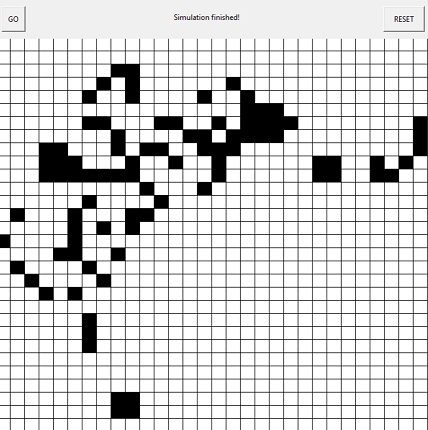
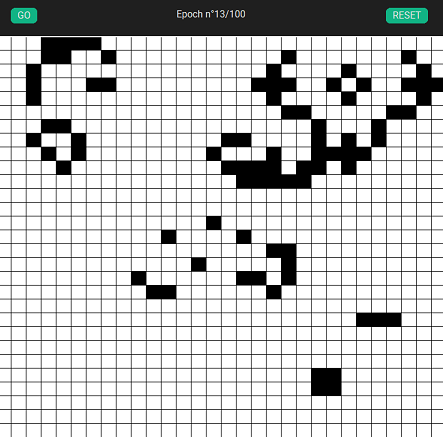
Improve ux

diff --git a/GameOfLife.py b/GameOfLife.py
@@ -1,5 +1,11 @@
 import numpy as np
 import tkinter as tk
+import customtkinter as ctk
+
+
+ctk.set_appearance_mode('dark')
+ctk.set_default_color_theme('green')
+ctk.set_window_scaling(1)
 
 
 class GameOfLife():
@@ -33,37 +39,32 @@ class GameOfLife():
         """Initialize the main windows
         """
 
-        self.root = tk.Tk('GameOfLife')
+        self.root = ctk.CTk('GameOfLife')
         self.root.title('GameOfLife')
-        
-        x = int((self.root.winfo_screenwidth() - self.root.winfo_reqwidth()) / 2)
-        y = int((self.root.winfo_screenheight() - self.root.winfo_reqheight()) / 2)
 
-        self.root.geometry(f"{self.windows_heigth}x{self.windows_width}+{x}+{y}")
+        self.root.geometry(f"{self.windows_heigth}x{self.windows_width}")
         self.root.resizable(width=False, height=False)
 
 
     def init_board(self, height:int, width:int) -> None:
         """Create the board view and logic
         
-        Parameters:
-        ------------
         :param int height: The number of cells we can put in the height of the board
         :param int width: The number of cells we can put in the width of the board
         """
         
         # compute the canva and the cell size
 
-        self.cell_width = self.windows_width // width
+        self.cell_width = (self.windows_width + self.windows_width//4) // width
         board_canva_w = width * self.cell_width
 
         free_space = 60
-        self.cell_height = (self.windows_heigth - free_space) // height
+        self.cell_height = (self.windows_heigth - free_space + self.windows_width//4) // height
         board_canva_h = height * self.cell_height
 
         self.board = np.zeros((height, width), dtype=int)
 
-        self.board_canva = tk.Canvas(width=board_canva_w, height=board_canva_h)
+        self.board_canva = ctk.CTkCanvas(width=board_canva_w, height=board_canva_h)
         self.board_canva.place(x=0, y=free_space)
 
 
@@ -71,16 +72,16 @@ class GameOfLife():
         """Create the basic button in the menu of the game
         """
         self.board_canva.bind("<Button-1>", self.event_hdlr)
-        launch_btn = tk.Button(self.root, text='GO', width=4, 
-                               height=2, command=self.launch_simulation)
-        launch_btn.place(x=10, y=10)
+        launch_btn = ctk.CTkButton(self.root, text='GO', width=4, 
+                                   height=2, command=self.launch_simulation)
+        launch_btn.place(x=20, y=10)
 
-        reset_btn = tk.Button(self.root, text='RESET', width=8, 
-                              height=2, command=self.reset)
+        reset_btn = ctk.CTkButton(self.root, text='RESET', width=8, 
+                                  height=2, command=self.reset)
         reset_btn.place(x=self.windows_width - 80, y=10)
 
-        text_info = tk.Label(self.root, textvariable=self.info, height=2, width=50)
-        text_info.place(x=self.windows_width // 2 - 190, y=10)
+        text_info = ctk.CTkLabel(self.root, textvariable=self.info, height=2, width=50)
+        text_info.place(x=self.windows_width // 2 - self.windows_width // 10, y=10)
         
 
     def event_hdlr(self, evt:tk.Event) -> None:
@@ -202,5 +203,5 @@ class GameOfLife():
 
 
 if __name__ == "__main__":
-    game = GameOfLife(epochs=100, n_cells=30, windows_size=700)
+    game = GameOfLife(epochs=100, n_cells=30, windows_size=600)
     game.root.mainloop()
